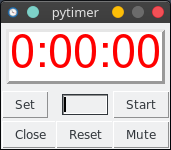
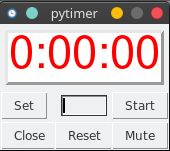
updated to use enter for set and buttons

diff --git a/pytimer.py b/pytimer.py
@@ -166,7 +166,7 @@ def play_sound():
     ))
 
 
-def count_down():
+def count_down(event=None):
     global go_on
     go_on = True
     if onset == True: MINUTES = SET
@@ -208,14 +208,14 @@ def clear_vars():
     thirty = None
     root.update()
 
-def reset():
+def reset(event=None):
     global go_on
     go_on = False
     time_str.set(formatter(MINUTES * 60))
     clear_vars()
     root.update()
     
-def five():
+def five(event=None):
     global go_on
     go_on = False
     global five
@@ -223,7 +223,7 @@ def five():
     time_str.set(formatter(5 * 60))
     root.update()
 
-def ten():
+def ten(event=None):
     global go_on
     go_on = False
     global ten
@@ -231,7 +231,7 @@ def ten():
     time_str.set(formatter(10 * 60))
     root.update()
 
-def fifteen():
+def fifteen(event=None):
     global go_on
     go_on = False
     global fifteen
@@ -239,7 +239,7 @@ def fifteen():
     time_str.set(formatter(15 * 60))
     root.update()
 
-def twenty():
+def twenty(event=None):
     global go_on
     go_on = False
     global twenty
@@ -247,7 +247,7 @@ def twenty():
     time_str.set(formatter(20 * 60))
     root.update()
     
-def twentyfive():
+def twentyfive(event=None):
     global go_on
     go_on = False
     global twentyfive
@@ -255,7 +255,7 @@ def twentyfive():
     time_str.set(formatter(25 * 60))
     root.update() 
     
-def thirty():
+def thirty(event=None):
     global go_on
     go_on = False
     global thirty
@@ -263,11 +263,11 @@ def thirty():
     time_str.set(formatter(30 * 60))
     root.update() 
 
-def mute():
+def mute(event=None):
     call(["kill", "-9", "play"])
 
 # SET button code:    
-def onset():
+def onset(event=None):
     global SET
     SET = int(entry.get())
     MINUTES = SET
@@ -275,6 +275,9 @@ def onset():
     onset = True
     time_str.set(formatter(MINUTES * 60))
     root.update()
+
+def close(event=None):
+    root.destroy()
 
 def center(win):
     """
@@ -330,7 +333,8 @@ if len(sys.argv) > 1:
 
 root = tk.Tk()
 root.wm_title(WINDOW_TITLE)
-root.wm_geometry ("-100-100")
+#root.wm_geometry ("-100-100")
+root.wm_geometry ("-2030-0")
 root.resizable(width=False, height=False)
 #root.geometry('{}x{}'.format(195, 230))
 
@@ -356,22 +360,60 @@ root.update()
 # Input box
 entry = Entry(root, width=5)
 entry.grid(column=0, row=2, pady=5, sticky=(N))
-tk.Button(root, text='Set', command=onset).grid(column=0, row=2, sticky=(E))
 entry.focus()
+entry.bind('<Return>', onset)
 
 # create buttons
-tk.Button(root, text='Start', command=count_down).grid(column=0, row=2, sticky=(W))
+startbtn = tk.Button(root, text='Start', command=count_down)
+startbtn.grid(column=0, row=2, sticky=(E))
+startbtn.bind('<Return>', count_down)
+
+setbtn = tk.Button(root, text='Set', command=onset)
+setbtn.grid(column=0, row=2, sticky=(W))
+setbtn.bind('<Return>', onset)
+
 # preset buttons
-tk.Button(root, text='5 min', command=five).grid(column=0, row=3, sticky=(W))
-tk.Button(root, text='10min', command=ten).grid(column=0, row=3, sticky=(N))
-tk.Button(root, text='15min', command=fifteen).grid(column=0, row=3, sticky=(E))
-tk.Button(root, text='20min', command=twenty).grid(column=0, row=4, sticky=(W))
-tk.Button(root, text='25min', command=twentyfive).grid(column=0, row=4, sticky=(N))
-tk.Button(root, text='30min', command=thirty).grid(column=0, row=4, sticky=(E))
+fivebtn = tk.Button(root, text='5 min', command=five)
+fivebtn.grid(column=0, row=3, sticky=(W))
+fivebtn.bind('<Return>', five)
+
+tenbtn = tk.Button(root, text='10min', command=ten)
+tenbtn.grid(column=0, row=3, sticky=(N))
+tenbtn.bind('<Return>', ten)
+            
+            
+fifteenbtn = tk.Button(root, text='15min', command=fifteen)
+fifteenbtn.grid(column=0, row=3, sticky=(E))
+fifteenbtn.bind('<Return>', fifteen)
+
+twentybtn = tk.Button(root, text='20min', command=twenty)
+twentybtn.grid(column=0, row=4, sticky=(W))
+twentybtn.bind('<Return>', twenty)
+
+twentyfivebtn = tk.Button(root, text='25min', command=twentyfive)
+twentyfivebtn.grid(column=0, row=4, sticky=(N))
+twentyfivebtn.bind('<Return>', twentyfive)
+
+thritybtn = tk.Button(root, text='30min', command=thirty)
+thritybtn.grid(column=0, row=4, sticky=(E))
+thritybtn.bind('<Return>', thirty)
+
 # bottom buttons
-tk.Button(root, text='Reset', command=reset).grid(column=0, row=5, sticky=(N))
-tk.Button(root, text='Close', command=root.destroy).grid(column=0, row=5, sticky=(W))
-tk.Button(root, text='Mute', command=mute).grid(column=0, row=5, sticky=(E))
+#tk.Button(root, text='Close', command=root.destroy).grid(column=0, row=5, sticky=(W))
+#tk.Button(root, text='Reset', command=reset).grid(column=0, row=5, sticky=(N))
+#tk.Button(root, text='Mute', command=mute).grid(column=0, row=5, sticky=(E))
+
+closebtn = tk.Button(root, text='Close', command=root.destroy)
+closebtn.grid(column=0, row=5, sticky=(W))
+closebtn.bind('<Return>', close)
+
+resetbtn = tk.Button(root, text='Reset', command=reset)
+resetbtn.grid(column=0, row=5, sticky=(N))
+resetbtn.bind('<Return>', reset)
+
+mutebtn = tk.Button(root, text='Mute', command=mute)
+mutebtn.grid(column=0, row=5, sticky=(E))
+mutebtn.bind('<Return>', mute)
 
 # start the GUI event loop
 #root.wm_attributes("-topmost", 1)    # always on top
